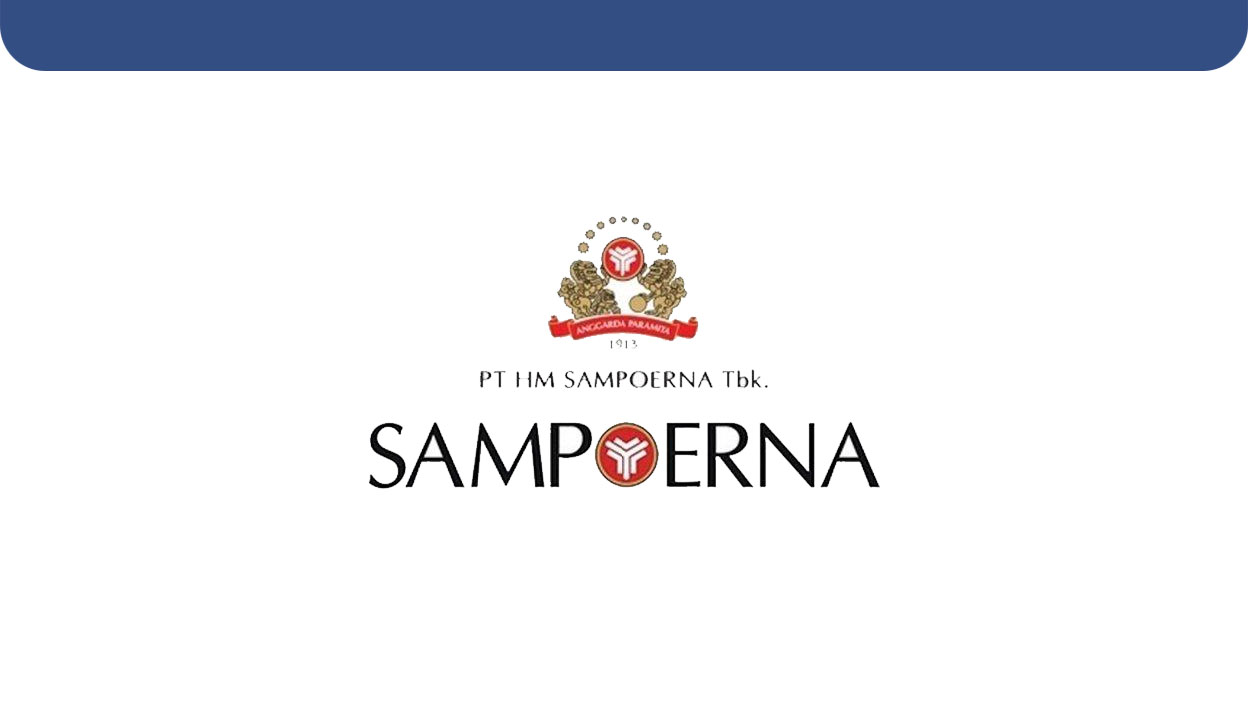
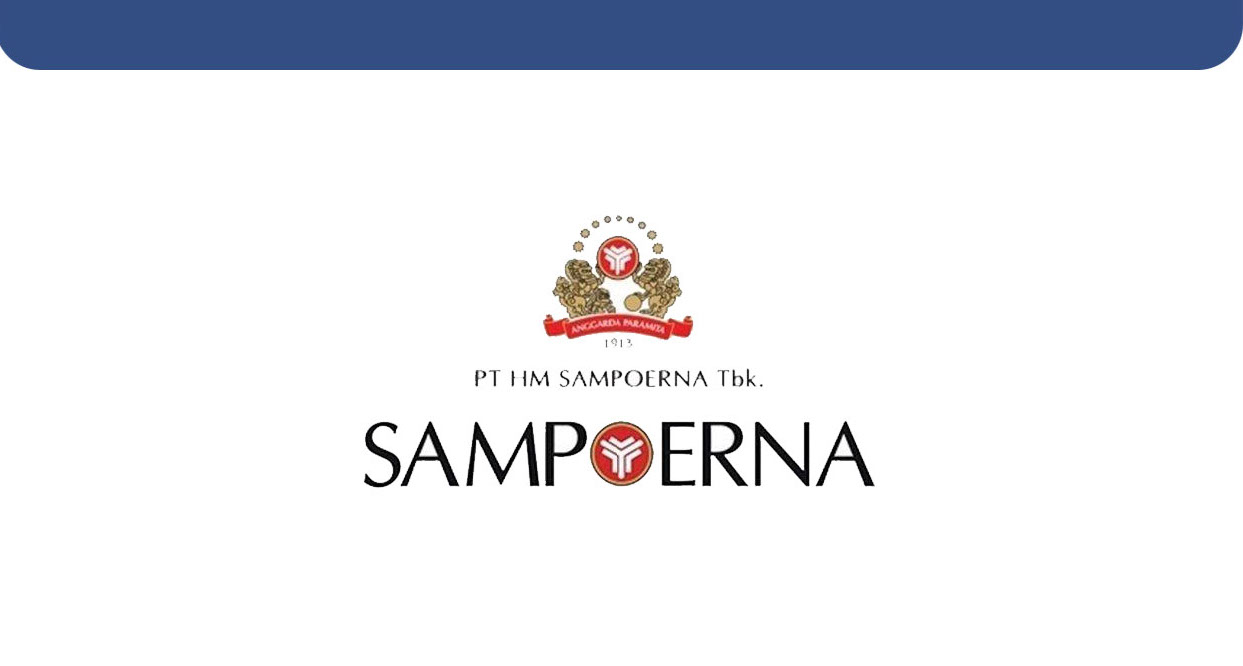
Modified some image and remove CNAME temporarily

Changed region(s): [[0.2751, 0.3003, 0.7031, 0.7508], [0.0, 0.0601, 0.9783, 0.1201], [0.9783, 0.0601, 1.0, 0.0901]]

diff --git a/index.html b/index.html
@@ -309,7 +309,7 @@
                 </p>
                 <div class="portfolio-links">
                   <a href="assets/img/portfolio/getcraft-brief.png" data-gallery="portfolioGallery" class="portfolio-lightbox"
-                    title="GetCraft"><i class="bi bi-plus"></i></a>
+                  title="Project: <b>GetCraft</b> <br>Technology: <b>Go, NodeJS, Express JS, Sails JS, MongoDB, Elasticache, AWS, Google Cloud</b>"><i class="bi bi-plus"></i></a>
                   <a href="https://getcraft.com" title="More Details"><i class="bi bi-link"></i></a>
                 </div>
               </div>
@@ -326,7 +326,7 @@
                   Role: Backend Developer
                 </p>
                 <div class="portfolio-links">
-                  <a href="assets/img/portfolio/adhi-karya.png" data-gallery="portfolioGallery" class="portfolio-lightbox" title="Adhi Karya E-Marketplace"><i class="bi bi-plus"></i></a>
+                  <a href="assets/img/portfolio/adhi-karya.png" data-gallery="portfolioGallery" class="portfolio-lightbox" title="Project: <b>Adhi Karya E-Marketplace</b><br>Technology: <b>PHP, Laravel, Elasticache, MySQL</b>"><i class="bi bi-plus"></i></a>
                   <a href="https://emerald.adhi.co.id/login" title="More Details"><i class="bi bi-link"></i></a>
                 </div>
               </div>
@@ -335,13 +335,13 @@
 
           <div class="col-lg-4 col-md-6 portfolio-item filter-web">
             <div class="portfolio-wrap">
-              <img src="assets/img/portfolio/panasonic-yfm.jpeg" class="img-fluid" alt="">
+              <img src="assets/img/portfolio/lumix-cover.jpeg" class="img-fluid" alt="">
               <div class="portfolio-info">
                 <h4>Panasonic Young Film Maker</h4>
                 <p>Initiated by: Suitmedia<br>
                 Role: Backend Developer</p>
                 <div class="portfolio-links">
-                  <a href="assets/img/portfolio/panasonic-yfm.jpeg" data-gallery="portfolioGallery" class="portfolio-lightbox" title="Panasonic Young Film Maker"><i class="bi bi-plus"></i></a>
+                  <a href="assets/img/portfolio/panasonic-yfm.jpeg" data-gallery="portfolioGallery" class="portfolio-lightbox" title="Project: <b>Panasonic Young Film Maker</b><br>Technology: <b>PHP, Laravel, Elasticache, MySQL</b>"><i class="bi bi-plus"></i></a>
                   <a href="#" title="More Details"><i class="bi bi-link"></i></a>
                 </div>
               </div>
@@ -356,7 +356,7 @@
                 <p>Initiated by: Suitmedia<br>
                 Role: Backend Developer</p>
                 <div class="portfolio-links">
-                  <a href="assets/img/portfolio/panasonic-achematlistrik.png" data-gallery="portfolioGallery" class="portfolio-lightbox" title="Panasonic AC Hemat Listrik"><i class="bi bi-plus"></i></a>
+                  <a href="assets/img/portfolio/panasonic-achematlistrik.png" data-gallery="portfolioGallery" class="portfolio-lightbox" title="Project: <b>Panasonic AC Hemat Listrik</b><br>Technology: <b>PHP, Laravel, Elasticache, MySQL</b>"><i class="bi bi-plus"></i></a>
                   <a href="https://achematlistrik.id/" title="More Details"><i class="bi bi-link"></i></a>
                 </div>
               </div>
@@ -371,7 +371,7 @@
                 <p>Initiated by: Suitmedia<br>
                 Role: Backend Developer</p>
                 <div class="portfolio-links">
-                  <a href="assets/img/portfolio/sweetycare.png" data-gallery="portfolioGallery" class="portfolio-lightbox" title="Sweetycare"><i class="bi bi-plus"></i></a>
+                  <a href="assets/img/portfolio/sweetycare.png" data-gallery="portfolioGallery" class="portfolio-lightbox" title="Project: <b>Sweetycare</b><br>Technology: <b>PHP, Laravel, Elasticache, MySQL</b>"><i class="bi bi-plus"></i></a>
                   <a href="https://sweetycare.com/" title="More Details"><i class="bi bi-link"></i></a>
                 </div>
               </div>
@@ -386,7 +386,7 @@
                 <p>Initiated by: Suitmedia & Hijup<br>
                 Role: Backend Developer</p>
                 <div class="portfolio-links">
-                  <a href="assets/img/portfolio/hijup-app.jpeg" data-gallery="portfolioGallery" class="portfolio-lightbox" title="Hijup - iOS"><i class="bi bi-plus"></i></a>
+                  <a href="assets/img/portfolio/hijup-app.jpeg" data-gallery="portfolioGallery" class="portfolio-lightbox" title="Project: <b>Hijup - iOS</b><br>Technology: <b>Ruby, Ruby on Rails, Elasticache, PostgreSQL</b>"><i class="bi bi-plus"></i></a>
                   <a href="https://apps.apple.com/id/app/hijup/id1050544944" title="More Details"><i class="bi bi-link"></i></a>
                 </div>
               </div>
@@ -401,7 +401,7 @@
                 <p>Initiated by: Suitmedia <br>
                 Role: Backend Developer</p>
                 <div class="portfolio-links">
-                  <a href="assets/img/portfolio/pigeon-baby.png" data-gallery="portfolioGallery" class="portfolio-lightbox" title="Pigeon Baby"><i class="bi bi-plus"></i></a>
+                  <a href="assets/img/portfolio/pigeon-baby.png" data-gallery="portfolioGallery" class="portfolio-lightbox" title="Project: <b>Pigeon Baby</b><br>Technology: <b>Ruby, Ruby on Rails, PostgreSQL, SOLR</b>"><i class="bi bi-plus"></i></a>
                   <a href="https://www.pigeon.co.id/" title="More Details"><i class="bi bi-link"></i></a>
                 </div>
               </div>
@@ -416,7 +416,7 @@
                 <p>Initiated by: Suitmedia<br>
                 Role: Backend Developer</p>
                 <div class="portfolio-links">
-                  <a href="assets/img/portfolio/erajaya.png" data-gallery="portfolioGallery" class="portfolio-lightbox" title="Erajaya"><i class="bi bi-plus"></i></a>
+                  <a href="assets/img/portfolio/erajaya.png" data-gallery="portfolioGallery" class="portfolio-lightbox" title="Project: <b>Erajaya</b><br>Technology: <b>PHP, Laravel, Elasticache, MySQL</b>"><i class="bi bi-plus"></i></a>
                   <a href="https://www.erajaya.com/" title="More Details"><i class="bi bi-link"></i></a>
                 </div>
               </div>
@@ -431,7 +431,7 @@
                 <p>Initiated by: Suitmedia<br>
                 Role: Backend Developer (Maintenance)</p>
                 <div class="portfolio-links">
-                  <a href="assets/img/portfolio/ibl.png" data-gallery="portfolioGallery" class="portfolio-lightbox" title="Indonesian Basketball League"><i class="bi bi-plus"></i></a>
+                  <a href="assets/img/portfolio/ibl.png" data-gallery="portfolioGallery" class="portfolio-lightbox" title="Project: <b>Indonesian Basketball League</b><br>Technology: <b>PHP, Laravel, Elasticache, MySQL</b>"><i class="bi bi-plus"></i></a>
                   <a href="https://iblindonesia.com/" title="More Details"><i class="bi bi-link"></i></a>
                 </div>
               </div>
@@ -446,8 +446,8 @@
                 <p>Initiated by: Suitmedia<br>
                 Role: Backend Developer (Maintenance)</p>
                 <div class="portfolio-links">
-                  <a href="assets/img/portfolio/portfolio-9.jpg" data-gallery="portfolioGallery" class="portfolio-lightbox" title="Sampoerna SIAPP - iPad and Android Mobile Apps"><i class="bi bi-plus"></i></a>
-                  <a href="portfolio-details.html" title="More Details"><i class="bi bi-link"></i></a>
+                  <a href="assets/img/portfolio/siapp-preview.jpeg" data-gallery="portfolioGallery" class="portfolio-lightbox" title="Project: <b>Sampoerna SIAPP - iPad and Android Mobile Apps (API Development)</b><br>Technology: <b>PHP, Laravel, Elasticache, MySQL</b>"><i class="bi bi-plus"></i></a>
+                  <a href="https://apkpure.com/id/siapp-retailer/com.sampoerna.siapp/download/23-APK?from=versions%2Fversion" title="More Details"><i class="bi bi-link"></i></a>
                 </div>
               </div>
             </div>
@@ -462,7 +462,7 @@
                   Role: Backend Developer</p>
                 <div class="portfolio-links">
                   <a href="assets/img/portfolio/career-bukalapak.png" data-gallery="portfolioGallery" class="portfolio-lightbox"
-                    title="Career Bukalapak"><i class="bi bi-plus"></i></a>
+                    title="Project: <b>Career Bukalapak</b><br>Technology: <b>PHP, Laravel, Elasticache, MySQL</b>"><i class="bi bi-plus"></i></a>
                   <a href="https://careers.bukalapak.com/" title="More Details"><i class="bi bi-link"></i></a>
                 </div>
               </div>
@@ -478,7 +478,7 @@
                   Role: Backend Developer</p>
                 <div class="portfolio-links">
                   <a href="assets/img/portfolio/bank-maspion.png" data-gallery="portfolioGallery" class="portfolio-lightbox"
-                    title="Bank Maspion"><i class="bi bi-plus"></i></a>
+                    title="Project: <b>Bank Maspion</b><br>Technology: <b>PHP, Laravel, Elasticache, MySQL</b>"><i class="bi bi-plus"></i></a>
                   <a href="https://www.bankmaspion.co.id/" title="More Details"><i class="bi bi-link"></i></a>
                 </div>
               </div>
@@ -494,7 +494,7 @@
                   Role: Backend Developer</p>
                 <div class="portfolio-links">
                   <a href="assets/img/portfolio/ace-hardware-product.png" data-gallery="portfolioGallery" class="portfolio-lightbox"
-                    title="Ace Hardware Indonesia - Product Site"><i class="bi bi-plus"></i></a>
+                    title="Project: <b>Ace Hardware Indonesia - Product Site</b><br>Technology: <b>PHP, Laravel, Elasticache, MySQL</b>"><i class="bi bi-plus"></i></a>
                   <a href="https://www.acehardware.co.id/" title="More Details"><i class="bi bi-link"></i></a>
                 </div>
               </div>
@@ -510,7 +510,7 @@
                   Role: Backend Developer</p>
                 <div class="portfolio-links">
                   <a href="assets/img/portfolio/ace-hardware-corp.png" data-gallery="portfolioGallery" class="portfolio-lightbox"
-                    title="Ace Hardware Indonesia - Corporate Site"><i class="bi bi-plus"></i></a>
+                    title="Project: <b>Ace Hardware Indonesia - Corporate Site</b><br>Technology: <b>PHP, Laravel, Elasticache, MySQL</b>"><i class="bi bi-plus"></i></a>
                   <a href="https://corporate.acehardware.co.id/en/" title="More Details"><i class="bi bi-link"></i></a>
                 </div>
               </div>
@@ -526,7 +526,7 @@
                   Role: Backend Developer</p>
                 <div class="portfolio-links">
                   <a href="assets/img/portfolio/sinotif.png" data-gallery="portfolioGallery" class="portfolio-lightbox"
-                    title="Sinotif"><i class="bi bi-plus"></i></a>
+                    title="Projec: <b>Sinotif</b><br>Technology: <b>PHP, Laravel, Elasticache, MySQL</b>"><i class="bi bi-plus"></i></a>
                   <a href="https://sinotif.com/" title="More Details"><i class="bi bi-link"></i></a>
                 </div>
               </div>
@@ -542,7 +542,7 @@
                   Role: Backend Developer</p>
                 <div class="portfolio-links">
                   <a href="assets/img/portfolio/scm.png" data-gallery="portfolioGallery" class="portfolio-lightbox"
-                    title="Surya Citra Media (SCM)"><i class="bi bi-plus"></i></a>
+                    title="Project: <b>Surya Citra Media (SCM)</b><br>Technology: <b>PHP, Laravel, Elasticache, MySQL</b>"><i class="bi bi-plus"></i></a>
                   <a href="https://www.scm.co.id/" title="More Details"><i class="bi bi-link"></i></a>
                 </div>
               </div>
@@ -558,7 +558,7 @@
                   Role: Backend Developer</p>
                 <div class="portfolio-links">
                   <a href="assets/img/portfolio/indosiar.png" data-gallery="portfolioGallery" class="portfolio-lightbox"
-                    title="Indosiar"><i class="bi bi-plus"></i></a>
+                    title="Project: <b>Indosiar</b><br>Technology: <b>PHP, Laravel, Elasticache, MySQL</b>"><i class="bi bi-plus"></i></a>
                   <a href="https://www.indosiar.com/" title="More Details"><i class="bi bi-link"></i></a>
                 </div>
               </div>
@@ -574,7 +574,7 @@
                   Role: Backend Developer</p>
                 <div class="portfolio-links">
                   <a href="assets/img/portfolio/sctv.png" data-gallery="portfolioGallery" class="portfolio-lightbox"
-                    title="SCTV"><i class="bi bi-plus"></i></a>
+                    title="Project: <b>SCTV</b><br>Technology: <b>PHP, Laravel, Elasticache, MySQL</b>"><i class="bi bi-plus"></i></a>
                   <a href="https://www.sctv.co.id/" title="More Details"><i class="bi bi-link"></i></a>
                 </div>
               </div>
@@ -590,7 +590,7 @@
                   Role: Backend Developer</p>
                 <div class="portfolio-links">
                   <a href="assets/img/portfolio/ksei.png" data-gallery="portfolioGallery" class="portfolio-lightbox"
-                    title="KSEI"><i class="bi bi-plus"></i></a>
+                    title="Project: <b>KSEI</b><br>Technology: <b>PHP, CakePHP, Elasticache, MySQL</b>"><i class="bi bi-plus"></i></a>
                   <a href="https://www.ksei.co.id/" title="More Details"><i class="bi bi-link"></i></a>
                 </div>
               </div>
@@ -606,8 +606,8 @@
                   Role: Backend Developer</p>
                 <div class="portfolio-links">
                   <a href="assets/img/portfolio/bbm-polls.png" data-gallery="portfolioGallery" class="portfolio-lightbox"
-                    title="BBM Polls"><i class="bi bi-plus"></i></a>
-                  <a href="portfolio-details.html" title="More Details"><i class="bi bi-link"></i></a>
+                    title="Project: <b>BBM Polls</b><br>Technology: <b>PHP, Laravel, Elasticache, MySQL</b>"><i class="bi bi-plus"></i></a>
+                  <a href="#" title="More Details"><i class="bi bi-link"></i></a>
                 </div>
               </div>
             </div>
@@ -622,7 +622,7 @@
                   Role: Backend Developer</p>
                 <div class="portfolio-links">
                   <a href="assets/img/portfolio/bank-fama.png" data-gallery="portfolioGallery" class="portfolio-lightbox"
-                    title="Bank Fama"><i class="bi bi-plus"></i></a>
+                    title="Project: <b>Bank Fama</b><br>Technology: <b>PHP, Laravel, Elasticache, MySQL</b>"><i class="bi bi-plus"></i></a>
                   <a href="https://bankfama.co.id/" title="More Details"><i class="bi bi-link"></i></a>
                 </div>
               </div>
@@ -638,7 +638,7 @@
                   Role: Full Stack Developer</p>
                 <div class="portfolio-links">
                   <a href="assets/img/portfolio/sipmaba.png" data-gallery="portfolioGallery" class="portfolio-lightbox"
-                    title="SI Mahasiswa Baru ITS"><i class="bi bi-plus"></i></a>
+                    title="Project: <b>SI Mahasiswa Baru ITS<b><br>"><i class="bi bi-plus"></i></a>
                   <a href="https://sipmaba.its.ac.id/" title="More Details"><i class="bi bi-link"></i></a>
                 </div>
               </div>
@@ -654,7 +654,7 @@
                   Role: Full Stack Developer</p>
                 <div class="portfolio-links">
                   <a href="assets/img/portfolio/tedx-its.png" data-gallery="portfolioGallery" class="portfolio-lightbox"
-                    title="TEDxITS Website"><i class="bi bi-plus"></i></a>
+                    title="Project: <b>TEDxITS Website</b><br>"><i class="bi bi-plus"></i></a>
                   <a href="https://www.tedxits.org/" title="More Details"><i class="bi bi-link"></i></a>
                 </div>
               </div>
@@ -670,7 +670,7 @@
                   Role: Full Stack Developer</p>
                 <div class="portfolio-links">
                   <a href="assets/img/portfolio/sman-cmbbs.png" data-gallery="portfolioGallery" class="portfolio-lightbox"
-                    title="SMAN Cahaya Madani Banten Boarding School Website"><i class="bi bi-plus"></i></a>
+                    title="Project: <b>SMAN Cahaya Madani Banten Boarding School Website</b><br>"><i class="bi bi-plus"></i></a>
                   <a href="http://www.smancmbbs.sch.id/" title="More Details"><i class="bi bi-link"></i></a>
                 </div>
               </div>
@@ -686,7 +686,7 @@
                   Role: Full Stack Developer</p>
                 <div class="portfolio-links">
                   <a href="assets/img/portfolio/bukupedia.png" data-gallery="portfolioGallery" class="portfolio-lightbox"
-                    title="Bukupedia"><i class="bi bi-plus"></i></a>
+                    title="Project: <b>Bukupedia</b><br>"><i class="bi bi-plus"></i></a>
                   <a href="https://www.bukupedia.co.id/" title="More Details"><i class="bi bi-link"></i></a>
                 </div>
               </div>
@@ -702,7 +702,7 @@
                   Role: System Tester</p>
                 <div class="portfolio-links">
                   <a href="assets/img/portfolio/etnis-id.png" data-gallery="portfolioGallery" class="portfolio-lightbox"
-                    title="Etnis.id"><i class="bi bi-plus"></i></a>
+                    title="Project: <b>Etnis.id</b><br>"><i class="bi bi-plus"></i></a>
                   <a href="https://etnis.id/" title="More Details"><i class="bi bi-link"></i></a>
                 </div>
               </div>
@@ -718,7 +718,7 @@
                   Role: Backend Developer</p>
                 <div class="portfolio-links">
                   <a href="assets/img/portfolio/tm-consultant.png" data-gallery="portfolioGallery" class="portfolio-lightbox"
-                    title="TM Consultant"><i class="bi bi-plus"></i></a>
+                    title="Project: <b>TM Consultant</b><br>"><i class="bi bi-plus"></i></a>
                   <a href="https://tmconsultant.id/" title="More Details"><i class="bi bi-link"></i></a>
                 </div>
               </div>
@@ -734,7 +734,7 @@
                   Role: Backend Developer</p>
                 <div class="portfolio-links">
                   <a href="assets/img/portfolio/nesabamedia.png" data-gallery="portfolioGallery" class="portfolio-lightbox"
-                    title="Nesabamedia"><i class="bi bi-plus"></i></a>
+                    title="Project: <b>Nesabamedia<b><br>"><i class="bi bi-plus"></i></a>
                   <a href="https://www.nesabamedia.com/" title="More Details"><i class="bi bi-link"></i></a>
                 </div>
               </div>
@@ -750,7 +750,7 @@
                   Role: Backend Developer</p>
                 <div class="portfolio-links">
                   <a href="assets/img/portfolio/yohanes-aples.png" data-gallery="portfolioGallery" class="portfolio-lightbox"
-                    title="Yohanes Aples & Partners Law Firm"><i class="bi bi-plus"></i></a>
+                    title="Project: <b>Yohanes Aples & Partners Law Firm</b><br>"><i class="bi bi-plus"></i></a>
                   <a href="https://www.yohaneslaw.com/" title="More Details"><i class="bi bi-link"></i></a>
                 </div>
               </div>
@@ -766,7 +766,7 @@
                   Role: Backend Developer</p>
                 <div class="portfolio-links">
                   <a href="assets/img/portfolio/miracle-clinic.png" data-gallery="portfolioGallery" class="portfolio-lightbox"
-                    title="Miracle Clinic"><i class="bi bi-plus"></i></a>
+                    title="Project: <b>Miracle Clinic</b><br>"><i class="bi bi-plus"></i></a>
                   <a href="https://www.miracle-clinic.com/" title="More Details"><i class="bi bi-link"></i></a>
                 </div>
               </div>
@@ -838,8 +838,18 @@
   <script src="assets/vendor/swiper/swiper-bundle.min.js"></script>
   <script src="assets/vendor/php-email-form/validate.js"></script>
 
-  <!-- Template Main JS File -->
   <script src="assets/js/main.js"></script>
+  <!-- Google tag (gtag.js) -->
+  <script async src="https://www.googletagmanager.com/gtag/js?id=G-5X9VJXHDCS"></script>
+  <script type="text/javascript">
+    if (document.URL.indexOf("noormaulida") != -1) {
+      window.dataLayer = window.dataLayer || [];
+      function gtag() { dataLayer.push(arguments); }
+      gtag('js', new Date());
+      gtag('config', 'G-5X9VJXHDCS');
+      console.log('Sending data to analytics')
+    } 
+  </script>
 
 </body>
 

diff --git a/assets/css/style.css b/assets/css/style.css
@@ -558,6 +558,14 @@ section {
   color: #5c768d;
 }
 
+.section-title h4 {
+  font-size: 23px;
+  font-weight: 520;
+  margin-bottom: 20px;
+  padding-bottom: 0;
+  color: #8aa3ba;
+}
+
 .section-title p {
   margin-bottom: 0;
 }
